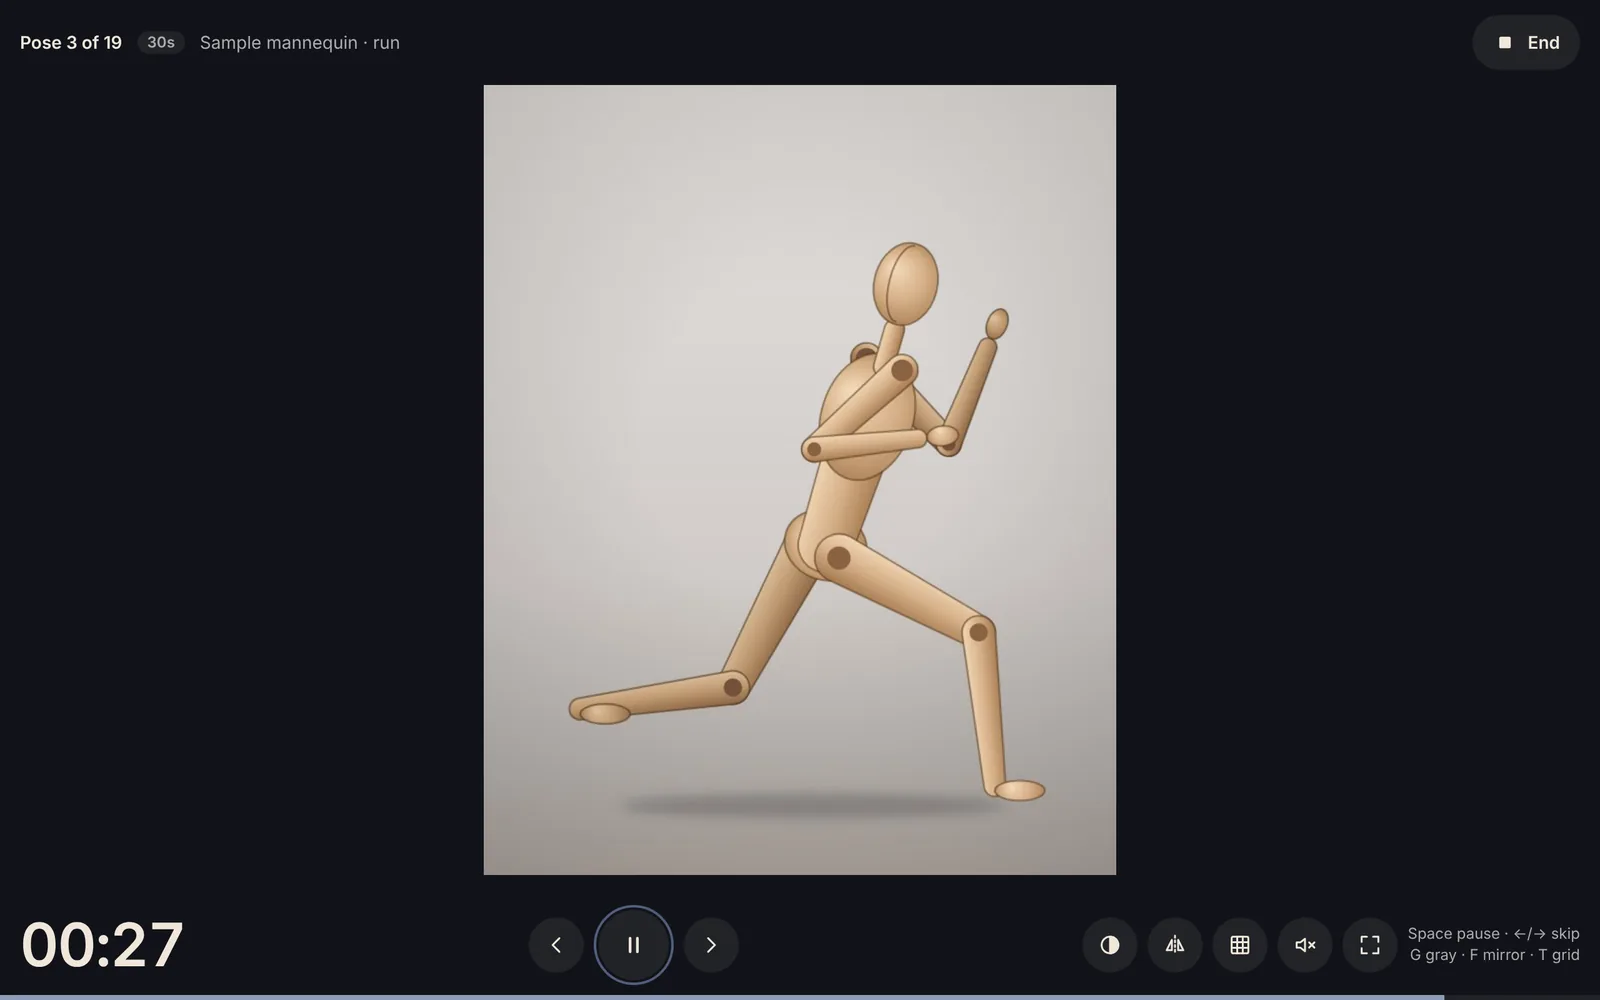
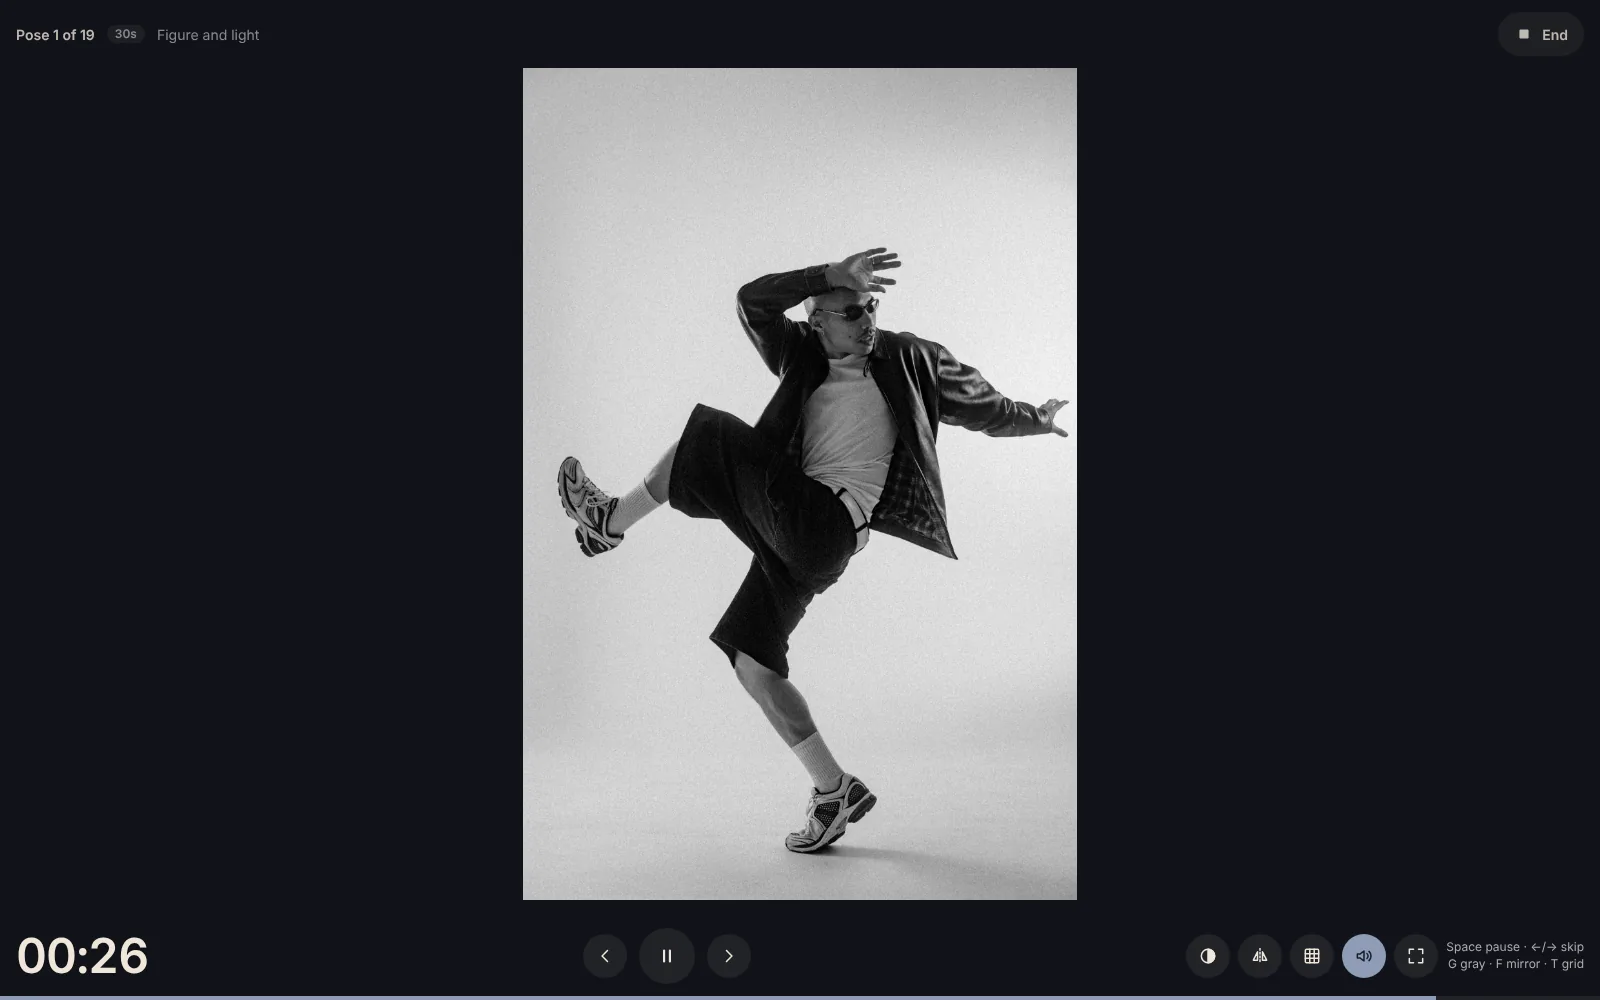
Homepage images with photo references

Changed region(s): [[0.0, 0.062, 1.0, 1.0], [0.0, 0.031, 0.25, 0.062], [0.9375, 0.031, 1.0, 0.062]]

diff --git a/app/index.html b/app/index.html
@@ -36,7 +36,7 @@
     </div>
     <p class="fine">Free. Nothing to install. No account needed.</p>
   </div>
-  <figure class="shot"><img src="/assets/img/session.webp" width="1600" height="1000" alt="The session player showing a timed pose of a running wooden mannequin, with the countdown and controls along the bottom" fetchpriority="high"></figure>
+  <figure class="shot"><img src="/assets/img/session.webp" width="1600" height="1000" alt="The session player showing a 30-second gesture pose of a dancer mid-kick, with the countdown and controls along the bottom" fetchpriority="high"></figure>
 </section>
 
 <section class="intro" id="features">
@@ -69,7 +69,7 @@
     <p>Sketch Hour’s Pinterest boards refresh once a day and wait in your Library, ready for a session. Found a pin of your own? Copy it on Pinterest and paste it in.</p>
     <ul class="ticks"><li>Boards refresh every day</li><li>Paste single pins straight from Pinterest</li><li>Drop in your own files, GIFs and short clips</li></ul>
   </div>
-  <figure class="shot"><img src="/assets/img/sources.webp" width="1600" height="1000" alt="The Sources tab listing the site’s Pinterest boards, the box for pasting single pins, and the FilmGrab and MapCrunch cards" loading="lazy" decoding="async"></figure>
+  <figure class="shot"><img src="/assets/img/sources.webp" width="1600" height="1000" alt="A board in the Library holding photo references: dancers, silhouettes, a portrait, two roads and a painting" loading="lazy" decoding="async"></figure>
 </section>
 <section class="feature flip">
   <div class="feature-copy">
@@ -78,7 +78,7 @@
     <p>Open any reference to zoom in, flip it, switch to grayscale, or reduce it to two, three or five values. Step through GIFs and clips one frame at a time to study movement.</p>
     <ul class="ticks"><li>Notan view with an adjustable split</li><li>Thirds grid for checking proportions</li><li>A study timer right in the viewer</li></ul>
   </div>
-  <figure class="shot"><img src="/assets/img/values.webp" width="1600" height="1000" alt="A mannequin reference reduced to two values in the viewer, with the split slider and the viewer tools along the bottom" loading="lazy" decoding="async"></figure>
+  <figure class="shot"><img src="/assets/img/values.webp" width="1600" height="1000" alt="A portrait reduced to three values in the viewer, with the viewer tools along the bottom" loading="lazy" decoding="async"></figure>
 </section>
 <section class="feature">
   <div class="feature-copy">
@@ -87,7 +87,7 @@
     <p>Find stills on FilmGrab and random street views on MapCrunch, paste them in, and give yourself a timed perspective study. You can also grab frames from video files on your computer.</p>
     <ul class="ticks"><li>Film scenes and Places boards ready to fill</li><li>Frame-by-frame grabber with timecodes</li><li>Perspective studies from 5 to 30 minutes</li></ul>
   </div>
-  <figure class="shot"><img src="/assets/img/places.webp" width="1600" height="1000" alt="A two-point perspective street corner in the viewer with the thirds grid turned on" loading="lazy" decoding="async"></figure>
+  <figure class="shot"><img src="/assets/img/places.webp" width="1600" height="1000" alt="A road running toward the mountains in the viewer with the thirds grid on, ready for a one-point perspective study" loading="lazy" decoding="async"></figure>
 </section>
 <section class="feature flip">
   <div class="feature-copy">
